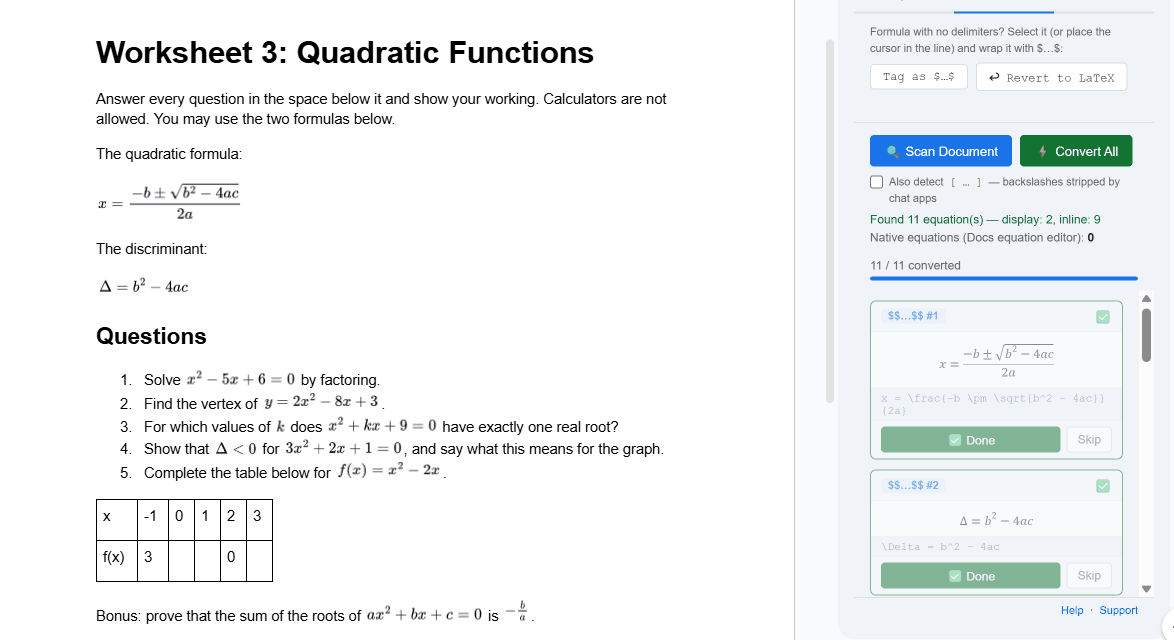
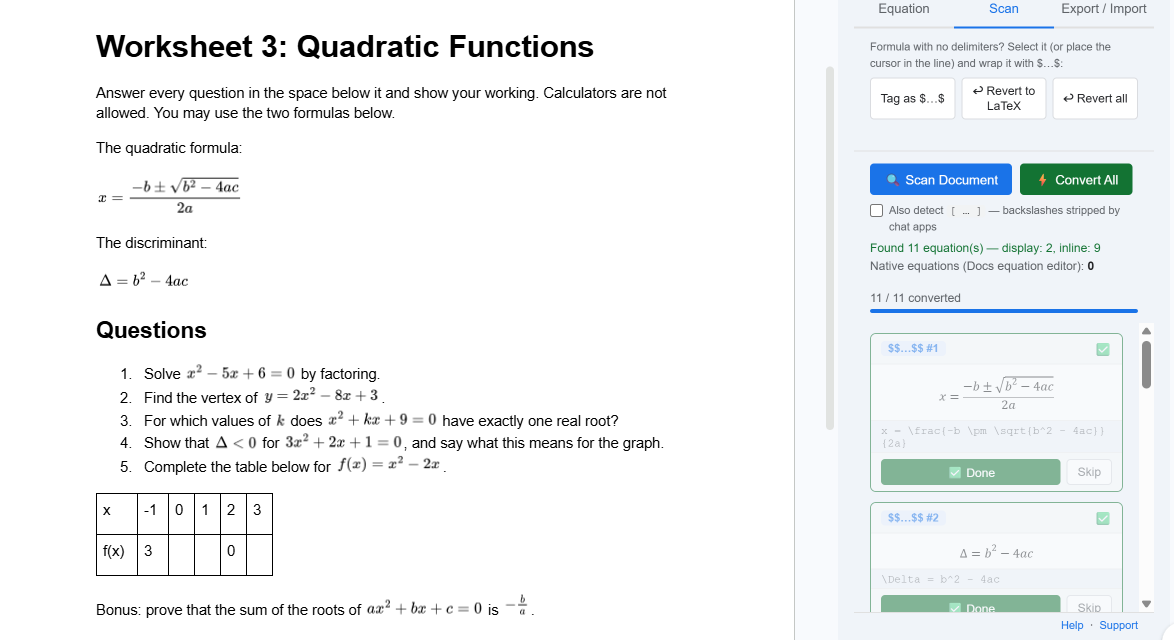
img(10-26): re-shoot 02-worksheet-converted (11 / 11) and 03-export-result on live v17; file name in alt/body now Worksheet_3_Quadratic_Functions.tex (the doc the shot was taken in) - R182
Claude-Session: https://claude.ai/code/session_01WtnKZasBhqLtdkMYmNon2T

diff --git a/_posts/2026-10-26-google-docs-worksheet-to-latex-overleaf.md b/_posts/2026-10-26-google-docs-worksheet-to-latex-overleaf.md
@@ -29,9 +29,9 @@ Export does not need this step. It reads equations whether they are LaTeX text, 
 
 On the **Export / Import** tab, leave **Full document** selected (or pick **Selection** to export only the highlighted part) and press **Convert to LaTeX**:
 
-![The Export / Import tab after Convert to LaTeX: the result line Converted — LaTeXFlow_v13_test.tex, the counts 0 native · 11 image · 0 text equations · 1 table · 0 images · 0 citations, the message Nothing skipped — every equation converted, a preview box starting with the line % LaTeXFlow Export (format 2) — nothing skipped: every equation converted, and the Download .tex, Copy .tex and Open in Overleaf buttons](/assets/img/posts/2026-10-26/03-export-result.png){: width="330" }
+![The Export / Import tab after Convert to LaTeX: the result line Converted — Worksheet_3_Quadratic_Functions.tex, the counts 0 native · 11 image · 0 text equations · 1 table · 0 images · 0 citations, the message Nothing skipped — every equation converted, a preview box starting with the line % LaTeXFlow Export (format 2) — nothing skipped: every equation converted, and the Download .tex, Copy .tex and Open in Overleaf buttons](/assets/img/posts/2026-10-26/03-export-result.png){: width="330" }
 
-The sidebar names the file after the document (this capture was taken in a test copy, hence `LaTeXFlow_v13_test.tex`) and counts what it found: 11 equations, all from converted images (none from the Docs equation editor, none left as text), 1 table, no images, no citations. "Nothing skipped — every equation converted" means no warnings. Below that is a preview of the file and the **Download .tex**, **Copy .tex** and **Open in Overleaf** buttons.
+The sidebar names the file after the document (`Worksheet_3_Quadratic_Functions.tex`) and counts what it found: 11 equations, all from converted images (none from the Docs equation editor, none left as text), 1 table, no images, no citations. "Nothing skipped — every equation converted" means no warnings. Below that is a preview of the file and the **Download .tex**, **Copy .tex** and **Open in Overleaf** buttons.
 
 ## 3. What is in the file
 
